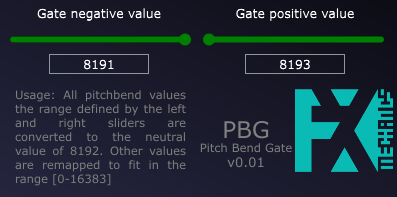
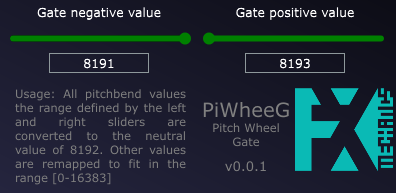
Change gui + screenshot

diff --git a/Source/PluginEditor.cpp b/Source/PluginEditor.cpp
@@ -73,12 +73,12 @@ void PitchBendGateAudioProcessorEditor::paint (juce::Graphics& g)
     g.drawImage(logo, r);
 
     g.setColour(juce::Colours::grey);
-    g.setFont(28);
-    g.drawMultiLineText("PiWheeG", uxb+4*ux, uyb+2.8*uy, 2*ux, juce::Justification::centred);
+    g.setFont(24);
+    g.drawMultiLineText("PiWheeG", uxb+4*ux, uyb+2.4*uy, 2*ux, juce::Justification::centred);
     g.setFont(14);
-    g.drawMultiLineText("Pitch Wheel Gate", uxb+4*ux, uyb+3.1*uy, 2*ux, juce::Justification::centred);
+    g.drawMultiLineText("Pitch Wheel Gate", uxb+4*ux, uyb+2.7*uy, 2*ux, juce::Justification::centred);
     g.setFont(16);
-    g.drawMultiLineText("v0.0.1", uxb+4*ux, uyb+3.4*uy, 2*ux, juce::Justification::centred);
+    g.drawMultiLineText("v0.0.1", uxb+4*ux, uyb+3.5*uy, 2*ux, juce::Justification::centred);
 
     g.setColour(juce::Colours::grey);
     g.setFont(14);
